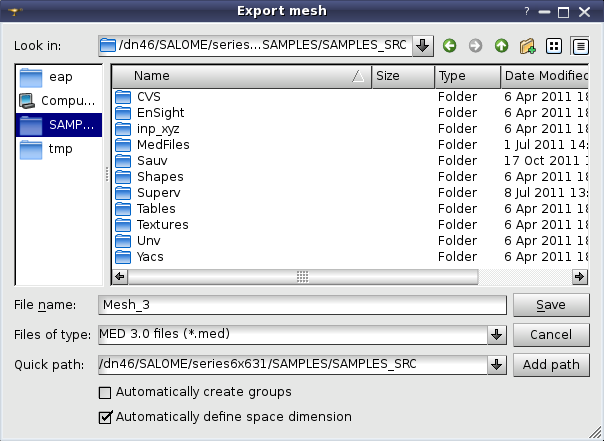
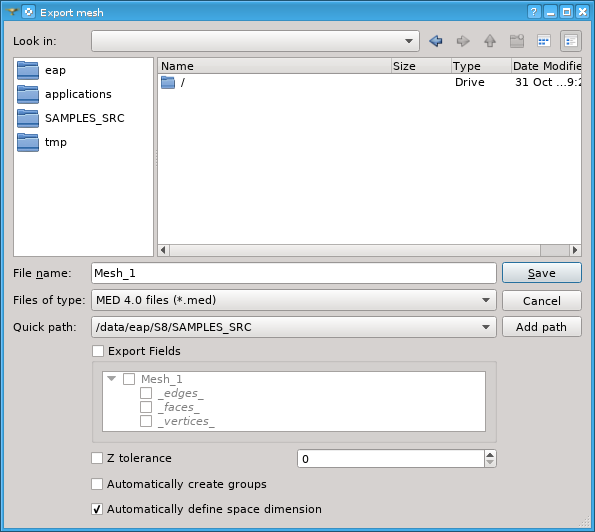
23611: EDF 11012 - Force Z coords to 0

diff --git a/src/SMESHGUI/SMESH_msg_en.ts b/src/SMESHGUI/SMESH_msg_en.ts
@@ -1467,6 +1467,10 @@ Please enter correct values and try again</translation>
         <translation>Automatically define space dimension</translation>
     </message>
     <message>
+        <source>SMESH_ZTOLERANCE</source>
+        <translation>Z tolerance</translation>
+    </message>
+    <message>
         <source>SMESH_REQUIRED_GROUPS</source>
         <translation>Create groups of required entities</translation>
     </message>
@@ -4583,6 +4587,10 @@ Please, create VTK viewer and try again</translation>
     <message>
         <source>PREF_SHOW_WARN</source>
         <translation>Show warning when exporting group</translation>
+    </message>
+    <message>
+        <source>PREF_ZTOLERANCE</source>
+        <translation>Z tolerance for MED export</translation>
     </message>
     <message>
         <source>PREF_GROUP_SEGMENT_LENGTH</source>

diff --git a/src/SMESH_SWIG/smeshBuilder.py b/src/SMESH_SWIG/smeshBuilder.py
@@ -2225,12 +2225,17 @@ class Mesh(metaclass = MeshMeta):
                         If *autoDimension* is *False*, the space dimension is always 3.
                 fields: list of GEOM fields defined on the shape to mesh.
                 geomAssocFields: each character of this string means a need to export a 
-                        corresponding field; correspondence between fields and characters is following:
+                        corresponding field; correspondence between fields and characters 
+                        is following:
 
                         - 'v' stands for "_vertices_" field;
                         - 'e' stands for "_edges_" field;
                         - 'f' stands for "_faces_" field;
                         - 's' stands for "_solids_" field.
+
+                zTolerance (float): tolerance in Z direction. If Z coordinate of a node is 
+                             close to zero within a given tolerance, the coordinate is set to zero.
+                             If *ZTolerance* is negative (default), the node coordinates are kept as is.
         """
         # process positional arguments
         #args = [i for i in args if i not in [SMESH.MED_V2_1, SMESH.MED_V2_2]] # backward compatibility
@@ -2242,6 +2247,7 @@ class Mesh(metaclass = MeshMeta):
         autoDimension   = args[5] if len(args) > 5 else True
         fields          = args[6] if len(args) > 6 else []
         geomAssocFields = args[7] if len(args) > 7 else ''
+        z_tolerance     = args[8] if len(args) > 8 else -1.
         # process keywords arguments
         auto_groups     = kwargs.get("auto_groups", auto_groups)
         minor           = kwargs.get("minor", minor)
@@ -2250,14 +2256,15 @@ class Mesh(metaclass = MeshMeta):
         autoDimension   = kwargs.get("autoDimension", autoDimension)
         fields          = kwargs.get("fields", fields)
         geomAssocFields = kwargs.get("geomAssocFields", geomAssocFields)
+        z_tolerance     = kwargs.get("zTolerance", z_tolerance)
         # invoke engine's function
-        if meshPart or fields or geomAssocFields:
+        if meshPart or fields or geomAssocFields or z_tolerance > 0:
             unRegister = genObjUnRegister()
             if isinstance( meshPart, list ):
                 meshPart = self.GetIDSource( meshPart, SMESH.ALL )
                 unRegister.set( meshPart )
             self.mesh.ExportPartToMED( meshPart, fileName, auto_groups, minor, overwrite, autoDimension,
-                                       fields, geomAssocFields)
+                                       fields, geomAssocFields, z_tolerance)
         else:
             self.mesh.ExportMED(fileName, auto_groups, minor, overwrite, autoDimension)
 

diff --git a/src/DriverMED/DriverMED_W_SMESHDS_Mesh.h b/src/DriverMED/DriverMED_W_SMESHDS_Mesh.h
@@ -50,6 +50,7 @@ class MESHDRIVERMED_EXPORT DriverMED_W_SMESHDS_Mesh: public Driver_SMESHDS_Mesh
 
   void SetFile(const std::string& theFileName, int theVersion=-1);
   void SetAutoDimension(bool toFindOutDimension) { myAutoDimension = toFindOutDimension; }
+  void SetZTolerance(double tol) { myZTolerance = tol; }
 
   static std::string GetVersionString(int theMinor, int theNbDigits=2);
 
@@ -89,7 +90,8 @@ class MESHDRIVERMED_EXPORT DriverMED_W_SMESHDS_Mesh: public Driver_SMESHDS_Mesh
   bool myAutoDimension;
   bool myAddODOnVertices;
   bool myDoAllInGroups;
-  int myVersion;
+  int  myVersion;
+  double myZTolerance;
 };
 
 #endif

diff --git a/doc/salome/gui/SMESH/input/importing_exporting_meshes.rst b/doc/salome/gui/SMESH/input/importing_exporting_meshes.rst
@@ -8,11 +8,12 @@ Importing and exporting meshes
 In MESH there is a functionality allowing import/export of meshes in the following formats:
 
 * **MED**,
+* **SAUV** (format of the CASTEM code),
 * **UNV** (I-DEAS 10),
-* **DAT** (simple ascii format), 
 * **STL**, 
+* **CGNS**,
 * **GMF** (internal format of DISTENE products from the MeshGems suite),
-* **CGNS**.
+* **DAT** (simple ascii format).
 
 You can also export a group as a whole mesh.
 
@@ -42,10 +43,13 @@ If you try to export a group, the warning will be shown:
 
 * **Don't show this warning anymore** check-box allows to switch off the warning. You can re-activate the warning in :ref:`Preferences <group_export_warning_pref>`.
 
+Only MED format supports all types of elements that can be created in the module. If you export a mesh or group that includes elements of types that are not supported by chosen format, you will be warned about that.
+
 There are additional parameters available at export to MED and SAUV format files.
 
 .. _export_auto_groups:
 
+* **Z tolerance** field if enabled specifies distance of nodes from the XOY plane below which the nodes snap to this plane. A default value can be set in :ref:`Preferences <medexport_z_tolerance_pref>`.
 * **Automatically create groups** check-box specifies whether to create groups of all mesh entities of available dimensions or not. The created groups have names like "Group_On_All_Nodes", "Group_On_All_Faces", etc. A default state of this check-box can be set in :ref:`Preferences <export_auto_groups_pref>`.
 * **Automatically define space dimension** check-box specifies whether to define space dimension for export by mesh configuration or not. Usually the mesh is exported as a mesh in 3D space, just as it is in Mesh module. The mesh can be exported as a mesh of a lower dimension in the following cases, provided that this check-box is checked:
 

diff --git a/doc/salome/gui/SMESH/input/mesh_preferences.rst b/doc/salome/gui/SMESH/input/mesh_preferences.rst
@@ -52,6 +52,10 @@ General Preferences
 
   * **Show warning when exporting group** - if activated, a warning is displayed when exporting a group.
 
+.. _medexport_z_tolerance_pref:
+
+  * **Z tolerance for MED export** - defines Z tolerance in :ref:`MED Export <export_auto_groups>` dialog.
+
 .. _show_comp_result_pref:
 
 * **Mesh computation**
